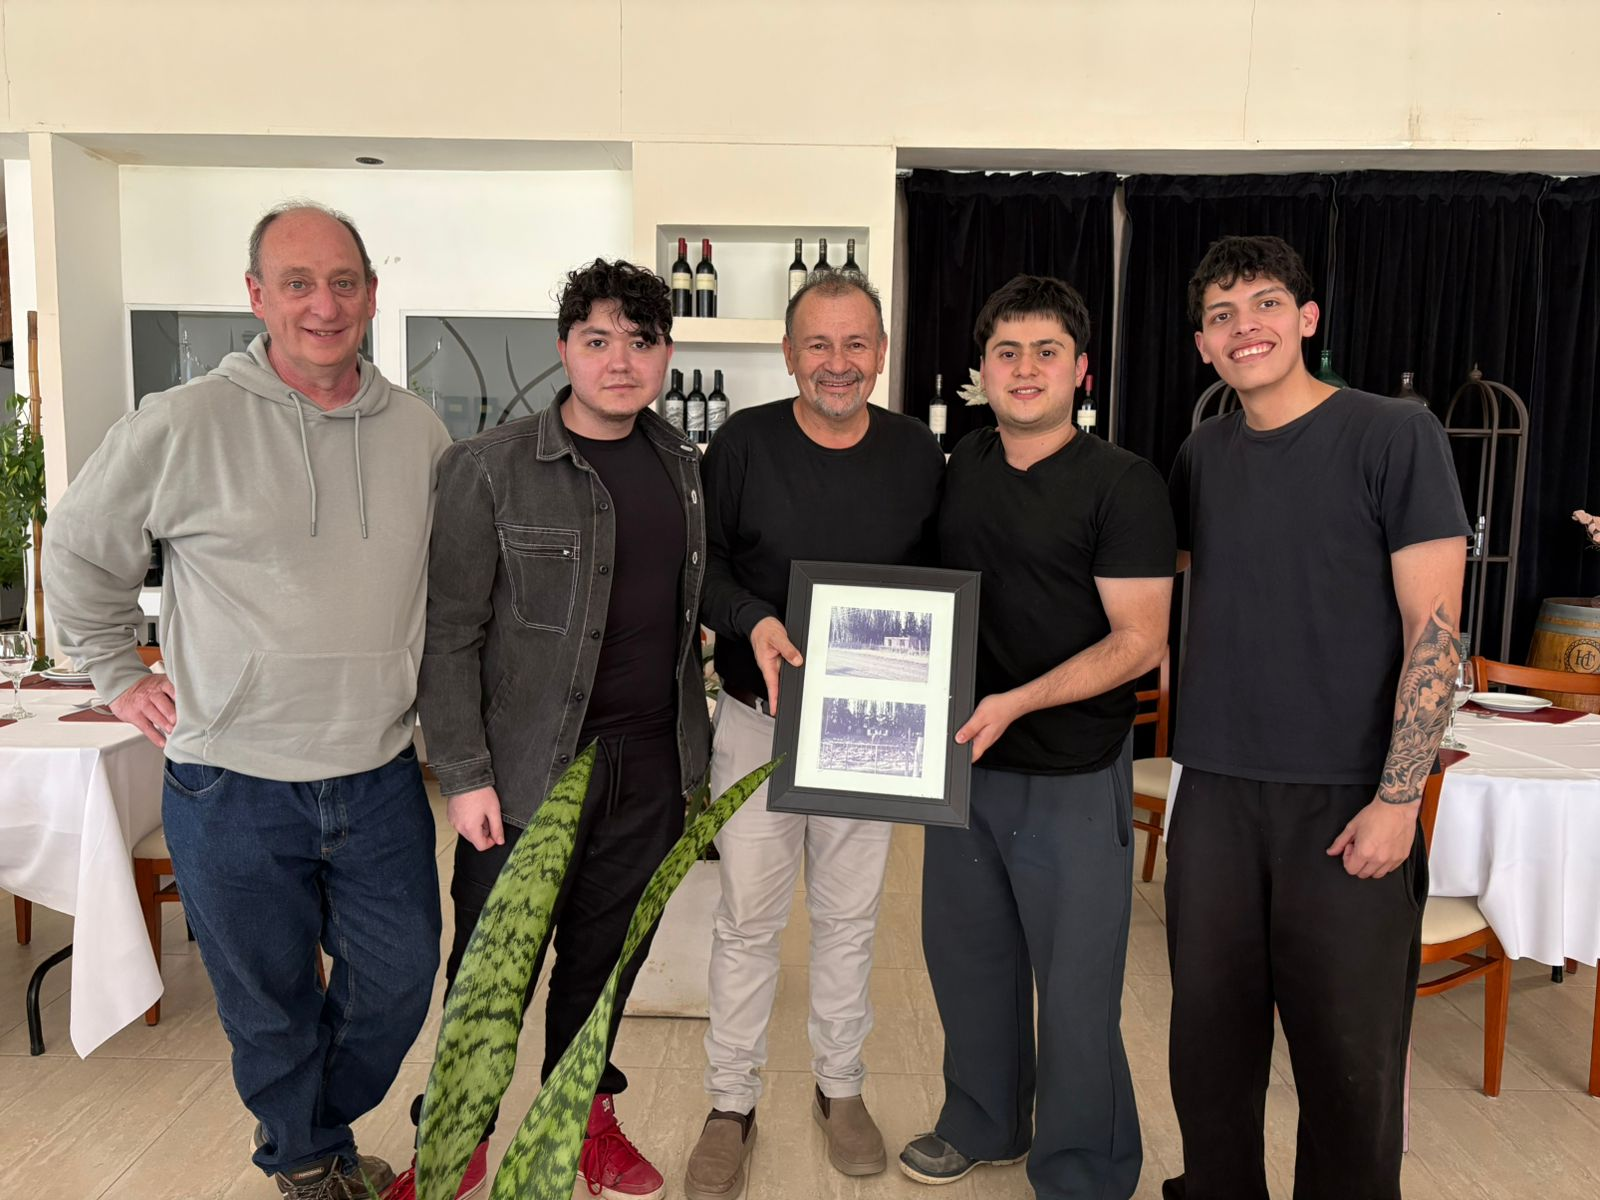
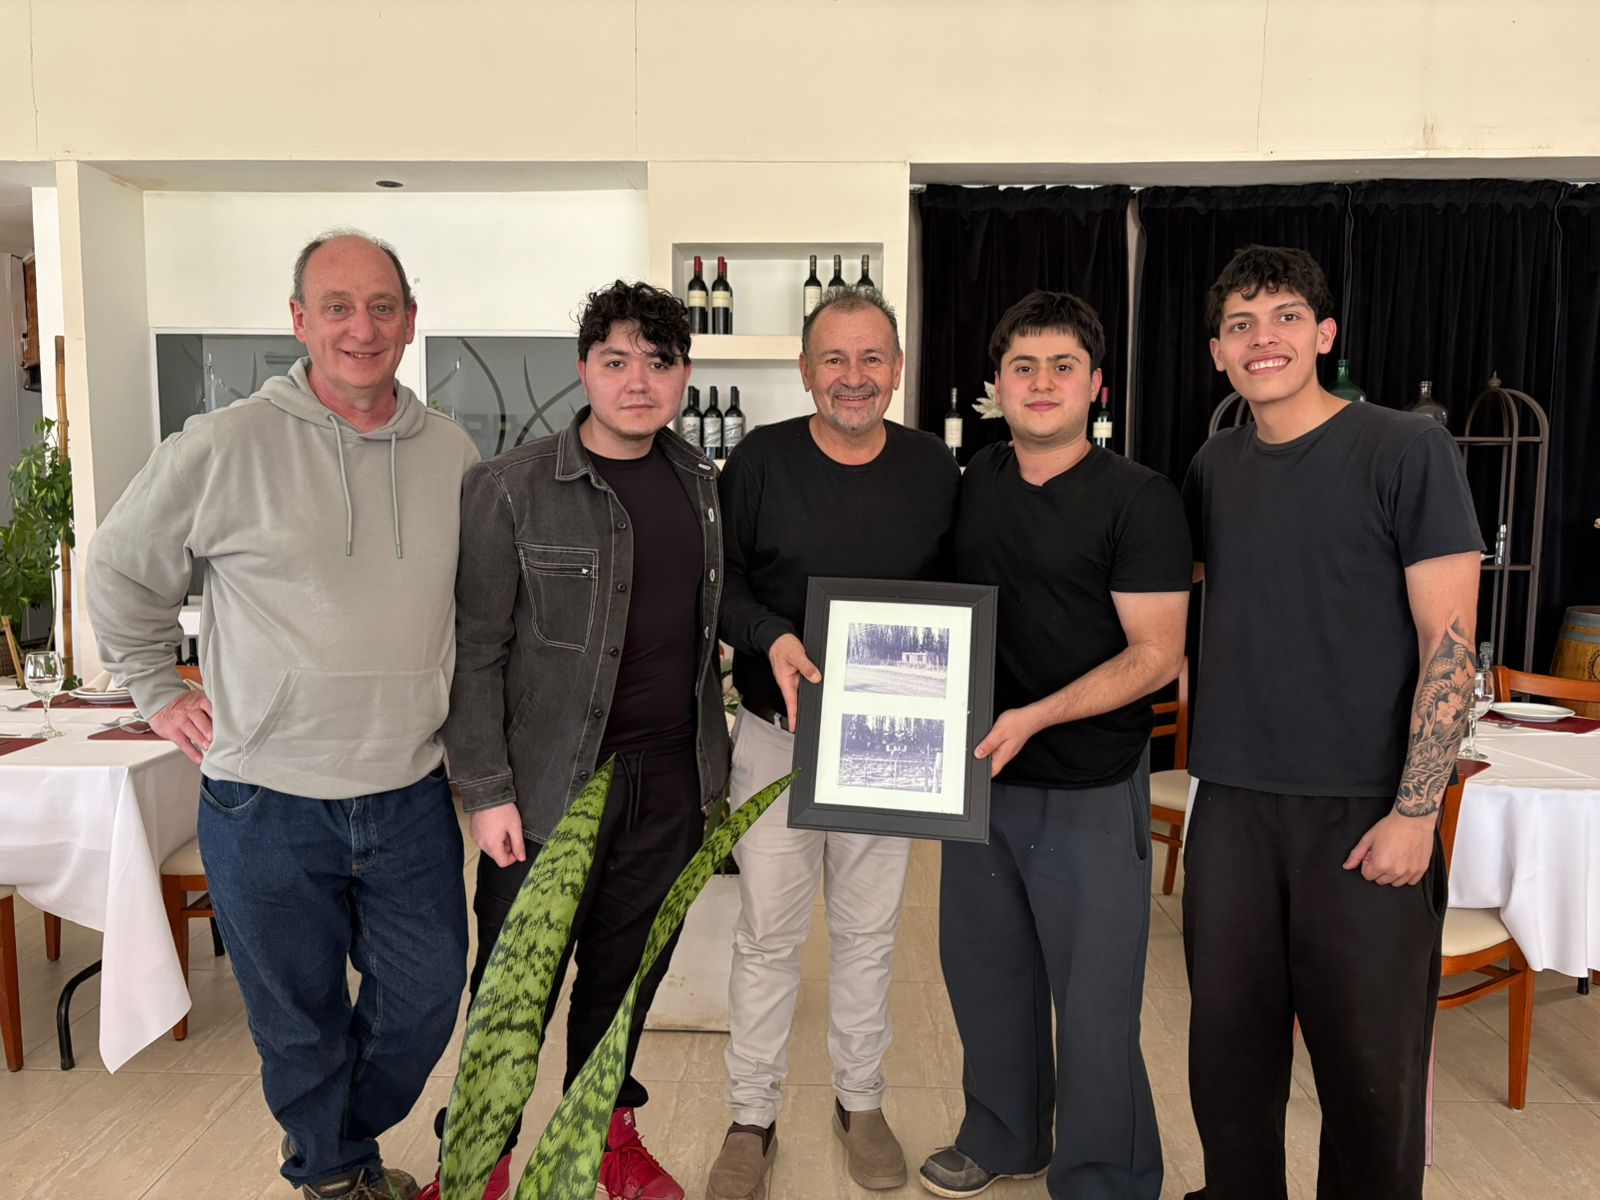
Agrega seccion Desarrolladores con foto y equipo del proyecto

diff --git a/style.css b/style.css
@@ -336,6 +336,35 @@
   .fleet-panel,.policy-panel,.table-panel,.form-panel,.quick-panel{padding:16px}
 }
 
+/* Equipo del proyecto: acceso desplegable debajo de los sectores de Inicio. */
+.developers-section{margin-top:30px;border:1px solid var(--line);border-radius:20px;background:#fff;box-shadow:var(--shadow);overflow:hidden}
+.developers-toggle{display:flex;align-items:center;gap:16px;padding:22px 26px;list-style:none;cursor:pointer;color:var(--green-dark);background:linear-gradient(110deg,#edf8f2,#fff)}
+.developers-toggle::-webkit-details-marker{display:none}
+.developers-toggle:hover{background:#edf8f2}
+.developers-toggle:focus-visible{outline:3px solid var(--green);outline-offset:-4px;border-radius:18px}
+.developers-icon{display:grid;place-items:center;flex-shrink:0;width:48px;height:48px;border-radius:14px;background:var(--green-dark);color:#fff;font:700 20px monospace}
+.developers-toggle-copy{display:grid;gap:3px;min-width:0}
+.developers-toggle-copy strong{font-size:19px}
+.developers-toggle-copy>span{color:var(--muted);font-size:13px}
+.developers-chevron{margin-left:auto;flex-shrink:0;transition:transform .2s ease}
+.developers-section[open] .developers-chevron{transform:rotate(180deg)}
+.developers-content{display:grid;grid-template-columns:minmax(0,1.2fr) minmax(0,1fr);align-items:center;border-top:1px solid var(--line);padding:28px;gap:32px}
+.developers-photo{margin:0;min-width:0;border-radius:14px;overflow:hidden;background:var(--bg)}
+.developers-photo img{display:block;width:100%;height:auto}
+.developers-info{min-width:0;padding:8px 0}
+.developers-info .eyebrow{font-size:10px;line-height:1.7;letter-spacing:1.5px}
+.developers-info h2{font-size:clamp(23px,2.5vw,32px);line-height:1.2;letter-spacing:-.6px;margin:10px 0 12px;color:var(--ink)}
+.developers-description{color:var(--muted);margin:0 0 22px}
+.developers-names{list-style:none;padding:0;margin:0;display:grid;gap:12px}
+.developers-names li{display:flex;align-items:center;gap:12px;padding:12px 14px;border:1px solid var(--line);border-radius:12px;background:#f9fbfa}
+.developers-names li>span{display:grid;place-items:center;flex-shrink:0;width:36px;height:36px;background:var(--green-soft);color:var(--green-dark);border-radius:50%;font-size:12px;font-weight:800}
+.developers-names strong{font-size:15px;overflow-wrap:anywhere}
+.developers-signature{margin:24px 0 0;color:var(--muted);font-size:11px;line-height:1.7}
+.developers-signature span{padding:0 5px;color:var(--green)}
+@media(max-width:1000px){.developers-content{grid-template-columns:1fr;gap:20px}.developers-photo{max-width:720px;width:100%;justify-self:center}.developers-info{padding:0}}
+@media(max-width:600px){.developers-section{margin-top:24px;border-radius:16px}.developers-toggle{padding:18px 16px;gap:12px}.developers-icon{width:40px;height:40px;border-radius:11px;font-size:17px}.developers-toggle-copy strong{font-size:17px}.developers-toggle-copy>span{font-size:12px}.developers-content{padding:16px;gap:20px}.developers-info h2{font-size:24px}.developers-names li{padding:10px 12px}}
+@media(prefers-reduced-motion:reduce){.developers-chevron{transition:none}}
+
 /* Campanita flotante (PC): siempre visible arriba a la derecha. En celular se usa la de la barra superior. */
 .notif-bell--float{position:fixed;top:14px;right:24px;z-index:40;width:46px;height:46px;border-radius:50%;background:#fff;border:1px solid var(--line);box-shadow:0 6px 18px rgba(22,56,40,.16)}
 .notif-bell--float svg{width:23px;height:23px}

diff --git a/php/dashboard.php b/php/dashboard.php
@@ -51,4 +51,25 @@ $galeria=[
 <section class="fleet-panel"><div class="section-head"><div><p class="eyebrow">ACCESOS DIRECTOS</p><h2>Personal, flota y equipamiento</h2><p>Seleccioná una imagen para abrir su control o checklist correspondiente.</p></div></div><div class="fleet-images"><?php foreach($galeria as [$titulo,$img,$url,$desc,$accion]):?><a class="fleet-card" href="<?=h(app_url('/php/'.$url))?>"><div class="fleet-image"><img src="<?=app_url('/img/'.$img)?>" alt="<?=h($titulo)?>" loading="lazy"></div><div class="fleet-card-body"><h3><?=h($titulo)?></h3><p><?=h($desc)?></p><span><?=h($accion)?> →</span></div></a><?php endforeach;?></div></section>
 <section class="policy-panel"><p class="eyebrow">INFORMACIÓN GENERAL</p><h2>Política de Calidad, Ambiente, Seguridad y Salud</h2><p>El sistema concentra la información necesaria para acompañar las operaciones de Slickline, Well Testing y Flow Back, con foco en seguridad, calidad, ambiente y mejora continua.</p><div class="policy-grid"><span>✓ Mejora continua</span><span>✓ Cumplimiento legal y normativo</span><span>✓ Prevención de incidentes</span><span>✓ Trabajo seguro y saludable</span></div></section>
 <div class="section-head"><div><p class="eyebrow">GESTIÓN CENTRALIZADA</p><h2>Sectores habilitados</h2></div></div><section class="sector-grid"><?php foreach($sectores as $s):?><article class="sector-card"><div class="sector-code"><?=h(strtoupper(substr($s['nombre'],0,2)))?></div><h3><?=h($s['nombre'])?></h3><p>Carpetas, documentación y procedimientos del sector.</p><div class="card-links"><a href="<?=app_url('/php/sector.php?sector='.urlencode($s['slug']))?>">Abrir sector →</a></div></article><?php endforeach;?></section>
+<details class="developers-section">
+  <summary class="developers-toggle">
+    <span class="developers-icon" aria-hidden="true">&lt;/&gt;</span>
+    <span class="developers-toggle-copy"><strong>Desarrolladores</strong><span>Conocé al equipo detrás de este proyecto</span></span>
+    <svg class="developers-chevron" width="24" height="24" viewBox="0 0 24 24" fill="none" aria-hidden="true"><path d="m6 9 6 6 6-6" stroke="currentColor" stroke-width="2" stroke-linecap="round" stroke-linejoin="round"/></svg>
+  </summary>
+  <div class="developers-content">
+    <figure class="developers-photo"><img src="<?=h(asset('/img/Desarrolladores.jpeg'))?>" alt="Foto grupal compartida por el equipo del proyecto NASER" width="1600" height="1200" loading="lazy"></figure>
+    <div class="developers-info">
+      <p class="eyebrow">PERSONAS QUE HACEN POSIBLE EL PROYECTO</p>
+      <h2>Desarrolladores de este proyecto</h2>
+      <p class="developers-description">Un proyecto construido en equipo.</p>
+      <ul class="developers-names" aria-label="Desarrolladores del proyecto">
+        <li><span aria-hidden="true">GV</span><strong>Gonzalo Vilche</strong></li>
+        <li><span aria-hidden="true">RW</span><strong>Robert Weisser</strong></li>
+        <li><span aria-hidden="true">LZ</span><strong>Lautaro Zeballos</strong></li>
+      </ul>
+      <p class="developers-signature">NASER <span>·</span> Sistema de Gestión Integrado</p>
+    </div>
+  </div>
+</details>
 </main></div></body></html>
